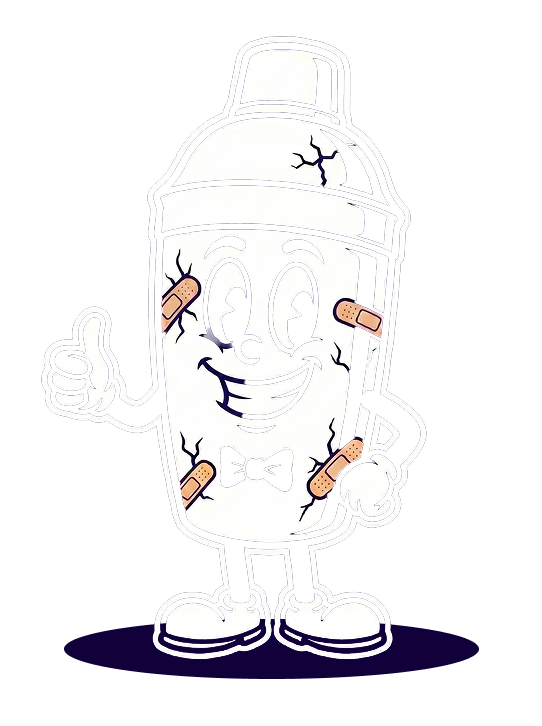
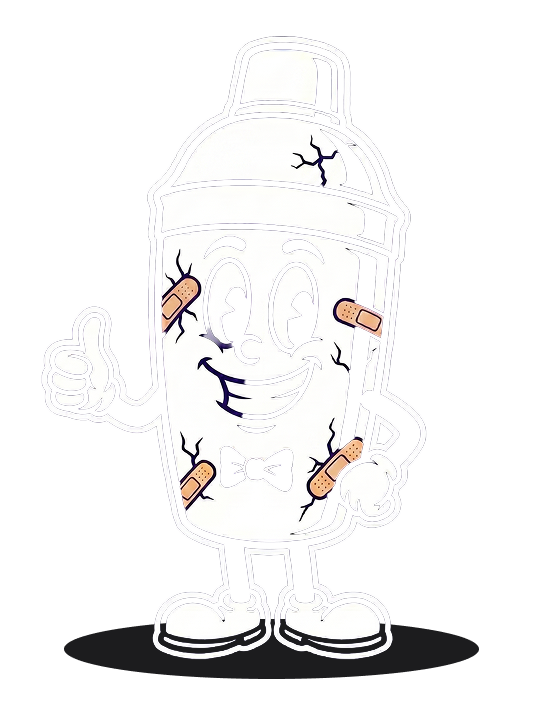
fix: dono-section — títulos 48px semibold, subtítulo 20px text-balance, imagem atualizada

Changed region(s): [[0.1181, 0.8485, 0.8856, 0.9394]]

diff --git a/src/components/marketing/dono-section.tsx b/src/components/marketing/dono-section.tsx
@@ -25,30 +25,26 @@ export function DonoSection() {
           {/* Texto */}
           <div>
             <h2
-              className="text-balance"
               style={{
-                fontFamily: "var(--font-display)",
-                fontSize: "clamp(1.25rem, 3.5vw, 2rem)",
-                fontWeight: 400,
+                fontFamily: "var(--font-sans)",
+                fontSize: 48,
+                fontWeight: 600,
                 color: "#ffffff",
-                textTransform: "uppercase",
-                letterSpacing: "0.08em",
-                lineHeight: 1.2,
+                lineHeight: 1.15,
+                letterSpacing: "-0.02em",
                 marginBottom: "1.5rem",
               }}
             >
               O dono médio procura mais clientes.
             </h2>
             <h2
-              className="text-balance"
               style={{
-                fontFamily: "var(--font-display)",
-                fontSize: "clamp(1.25rem, 3.5vw, 2rem)",
-                fontWeight: 400,
+                fontFamily: "var(--font-sans)",
+                fontSize: 48,
+                fontWeight: 600,
                 color: "#ffffff",
-                textTransform: "uppercase",
-                letterSpacing: "0.08em",
-                lineHeight: 1.2,
+                lineHeight: 1.15,
+                letterSpacing: "-0.02em",
               }}
             >
               O dono inteligente procura mais margem.
@@ -58,12 +54,15 @@ export function DonoSection() {
 
         {/* Subtítulo centralizado */}
         <p
-          className="text-pretty md:text-center"
+          className="text-balance md:text-center"
           style={{
-            fontFamily: "var(--font-roboto-mono)",
-            fontSize: "0.875rem",
+            fontFamily: "var(--font-sans)",
+            fontWeight: 400,
+            fontSize: 20,
             color: "#ffffff",
-            lineHeight: 1.7,
+            lineHeight: 1.6,
+            maxWidth: 640,
+            margin: "0 auto",
           }}
         >
           Você não precisa vender o dobro. Precisa enxergar melhor.